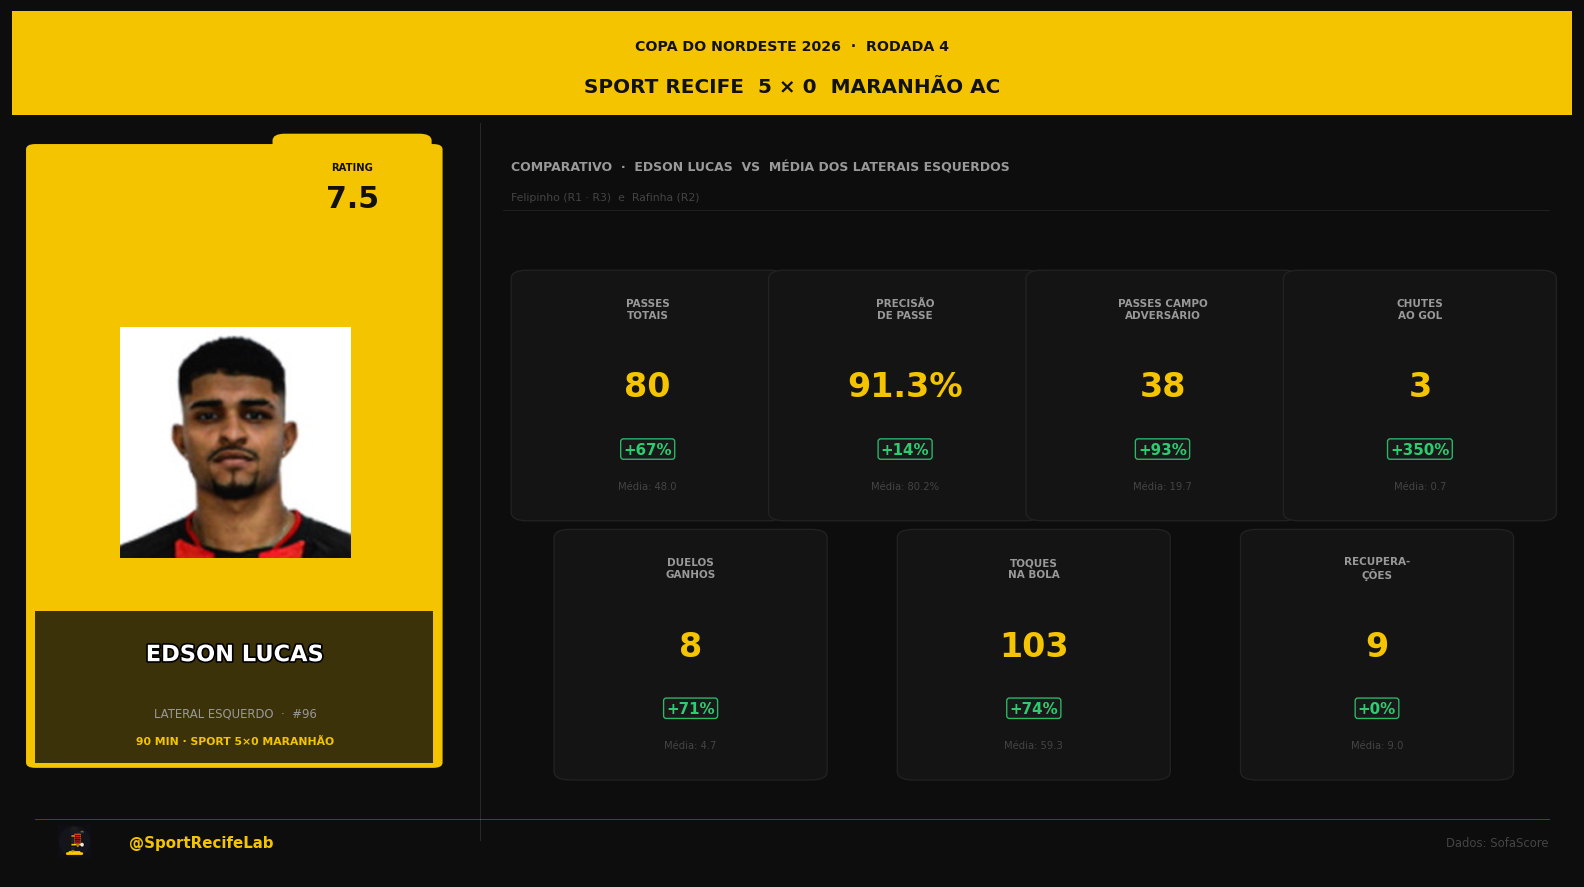
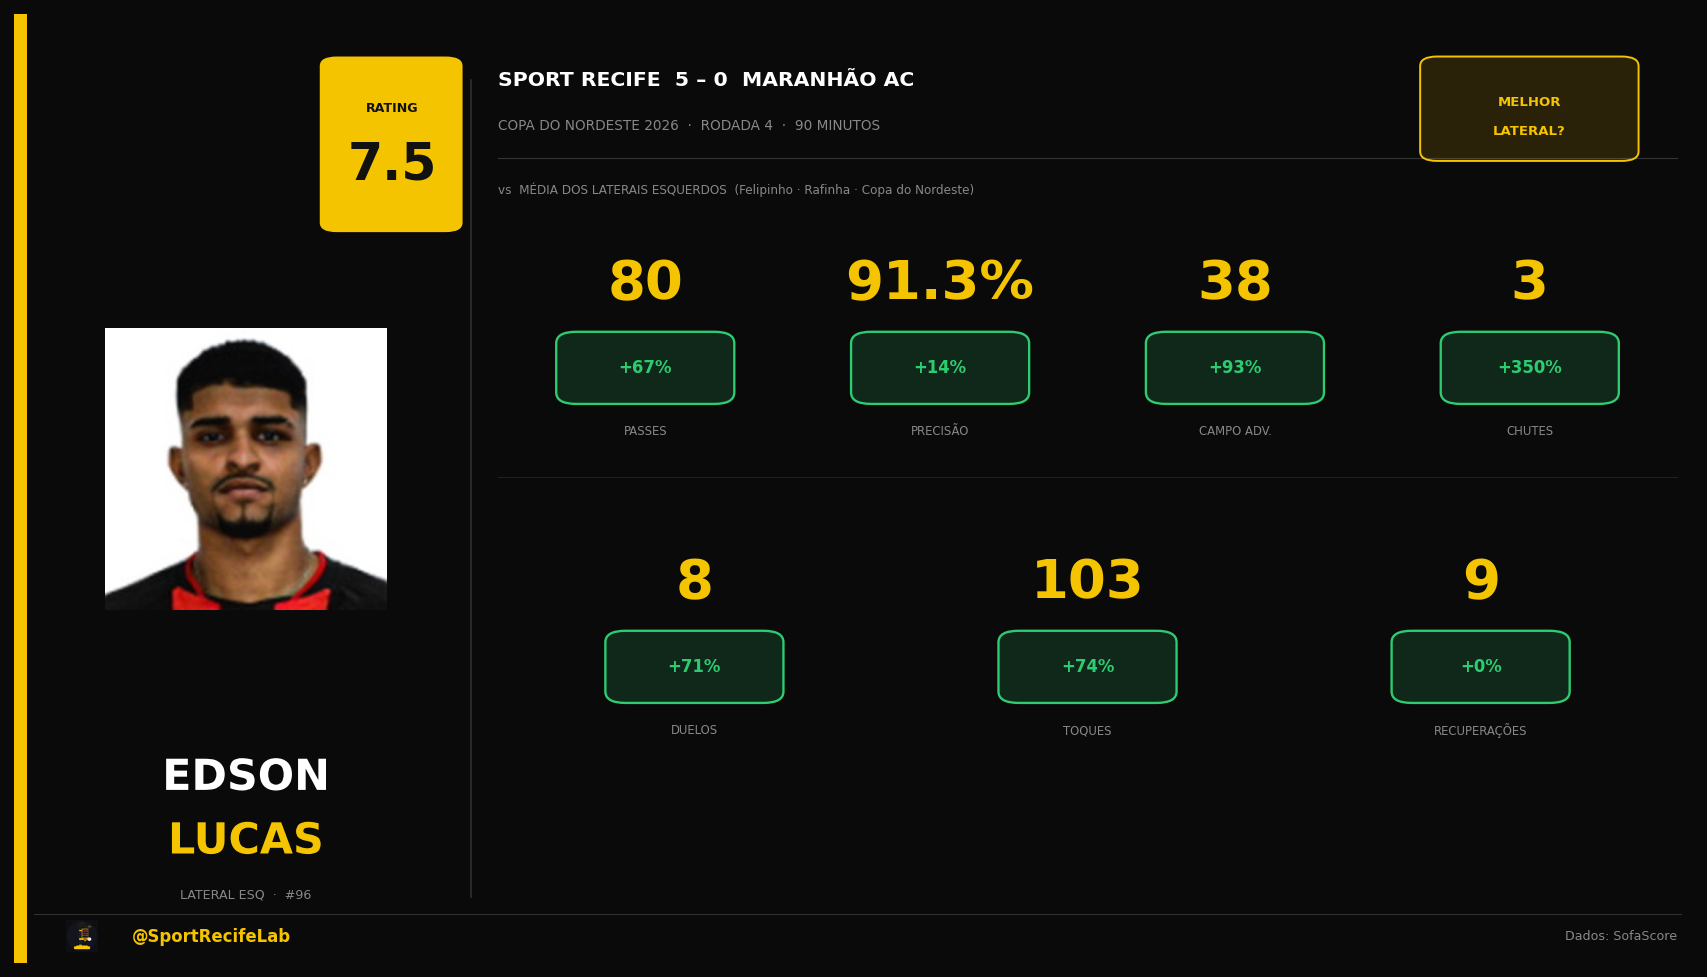
refactor: card Edson Lucas v3 — hierarquia visual e formato social
Redesenho completo: números em destaque máximo (28pt amarelo),
badges de delta como elemento secundário, sem barras comparativas.
Layout paisagem com foto + rating à esquerda e 7 stats em grade 4+3.
CTA "MELHOR LATERAL?" no topo direito para engajamento.

diff --git a/generate_edson_lucas_nordeste_r4.py b/generate_edson_lucas_nordeste_r4.py
@@ -1,7 +1,6 @@
 """
-Card comparativo — Edson Lucas x Média dos Laterais Esquerdos Copa do Nordeste 2026
-Jogo: Sport Recife 5x0 Maranhão AC (Rodada 4)
-Layout paisagem: painel esquerdo (foto + rating) | painel direito (stats vs média)
+Card — Edson Lucas · Copa do Nordeste R4 · Sport 5-0 Maranhão
+Redesign v3: hierarchy-first, landscape, optimized for social media
 """
 import matplotlib
 matplotlib.use("Agg")
@@ -12,55 +11,50 @@ from matplotlib.offsetbox import AnnotationBbox, OffsetImage
 import numpy as np
 from PIL import Image
 
-# ── Paleta ────────────────────────────────────────────────────────────────────
-BG     = "#0d0d0d"
-YELLOW = "#F5C400"
-WHITE  = "#FFFFFF"
-GRAY   = "#444444"
-LGRAY  = "#999999"
-GREEN  = "#2ECC71"
-RED    = "#E74C3C"
-PANEL  = "#141414"
+BG      = "#0a0a0a"
+YELLOW  = "#F5C400"
+WHITE   = "#FFFFFF"
+LGRAY   = "#888888"
+DGRAY   = "#333333"
+GREEN   = "#2ECC71"
+RED     = "#E74C3C"
+PANEL   = "#131313"
 
-FIG_W, FIG_H = 13.0, 7.2
-DPI = 120
+FIG_W, FIG_H = 12.0, 6.8
+DPI = 140
 
-# ── Dados ─────────────────────────────────────────────────────────────────────
-EDSON = {
-    "rating":       7.5,
-    "passes":       80,
-    "pass_acc":     91.3,
-    "opp_half":     38,
-    "shots":        3,
-    "duels_won":    8,
-    "touches":      103,
-    "recoveries":   9,
-}
-
-OTHERS = [
-    {"rating": 6.6, "passes": 54, "pass_acc": 79.6, "opp_half": 20, "shots": 0, "duels_won": 1,  "touches": 63, "recoveries": 3},
-    {"rating": 7.6, "passes": 32, "pass_acc": 78.1, "opp_half": 15, "shots": 0, "duels_won": 9,  "touches": 46, "recoveries": 14},
-    {"rating": 7.8, "passes": 58, "pass_acc": 82.8, "opp_half": 24, "shots": 2, "duels_won": 4,  "touches": 69, "recoveries": 10},
+STATS = [
+    # (label, value_str, delta_str, delta_positive)
+    ("PASSES",          "80",     "+67%",  True),
+    ("PRECISÃO",        "91.3%",  "+14%",  True),
+    ("CAMPO ADV.",      "38",     "+93%",  True),
+    ("CHUTES",          "3",      "+350%", True),
+    ("DUELOS",          "8",      "+71%",  True),
+    ("TOQUES",          "103",    "+74%",  True),
+    ("RECUPERAÇÕES",    "9",      "+0%",   True),
 ]
 
-def _mean(key):
-    return np.mean([o[key] for o in OTHERS])
 
-def _delta(val, mean, higher_is_better=True):
-    if mean == 0:
-        return "—", LGRAY
-    d = (val - mean) / mean * 100
-    sign = "+" if d >= 0 else ""
-    color = GREEN if (d >= 0) == higher_is_better else RED
-    return f"{sign}{d:.0f}%", color
+def _pill(ax, cx, cy, text, color, fontsize=8.5, w=0.072, h=0.055):
+    ax.add_patch(patches.FancyBboxPatch(
+        (cx - w/2, cy - h/2), w, h,
+        boxstyle="round,pad=0.012",
+        facecolor=color + "28",   # transparent fill
+        edgecolor=color, linewidth=1.2,
+        transform=ax.transAxes, zorder=8,
+    ))
+    ax.text(cx, cy, text,
+            color=color, fontsize=fontsize, fontweight="black",
+            ha="center", va="center",
+            transform=ax.transAxes, zorder=9)
 
 
 def generate():
     photo = Image.open("edson_lucas_foto.jpg").convert("RGBA")
-    photo = photo.resize((420, 420), Image.LANCZOS)
+    photo = photo.resize((460, 460), Image.LANCZOS)
     photo_arr = np.array(photo)
 
-    logo = Image.open("sportrecifelab_avatar.png").convert("RGBA").resize((44, 44), Image.LANCZOS)
+    logo = Image.open("sportrecifelab_avatar.png").convert("RGBA").resize((40, 40), Image.LANCZOS)
     logo_arr = np.array(logo)
 
     fig, ax = plt.subplots(figsize=(FIG_W, FIG_H), dpi=DPI)
@@ -70,171 +64,149 @@ def generate():
     ax.set_ylim(0, 1)
     ax.axis("off")
 
-    # ── Faixa topo ────────────────────────────────────────────────────────────
-    ax.add_patch(patches.Rectangle((0, 0.88), 1, 0.12,
+    # ── Faixa lateral amarela (acento vertical esquerdo) ─────────────────────
+    ax.add_patch(patches.Rectangle((0, 0), 0.008, 1,
                                     facecolor=YELLOW, edgecolor="none",
-                                    transform=ax.transAxes, zorder=1))
-    ax.text(0.5, 0.960, "COPA DO NORDESTE 2026  ·  RODADA 4",
-            color="#111", fontsize=8.5, fontweight="bold",
-            ha="center", va="center", transform=ax.transAxes, zorder=5)
-    ax.text(0.5, 0.913, "SPORT RECIFE  5 × 0  MARANHÃO AC",
-            color="#111", fontsize=12, fontweight="black",
-            ha="center", va="center", transform=ax.transAxes, zorder=5)
+                                    transform=ax.transAxes, zorder=2))
 
-    # ── Linha divisória vertical (separa painéis) ──────────────────────────────
-    DIV = 0.30
-    ax.plot([DIV, DIV], [0.04, 0.87], color=GRAY,
-            linewidth=0.6, alpha=0.5, transform=ax.transAxes, zorder=5)
+    # ══════════ PAINEL ESQUERDO ══════════════════════════════════════════════
+    L = 0.26   # largura do painel esquerdo
 
-    # ══════════════════════════════════════════════════════════════
-    # PAINEL ESQUERDO — foto + nome + rating
-    # ══════════════════════════════════════════════════════════════
-
-    # Moldura amarela da foto
-    ax.add_patch(patches.FancyBboxPatch(
-        (0.015, 0.13), 0.255, 0.71,
-        boxstyle="round,pad=0.006", facecolor=YELLOW,
-        edgecolor="none", transform=ax.transAxes, zorder=2,
-    ))
+    # Foto com vinheta lateral
     photo_ab = AnnotationBbox(
-        OffsetImage(photo_arr, zoom=0.33),
-        (0.143, 0.50), xycoords="axes fraction",
-        frameon=False, zorder=10,
+        OffsetImage(photo_arr, zoom=0.315),
+        (L / 2 + 0.008, 0.52),
+        xycoords="axes fraction", frameon=False, zorder=4,
     )
     ax.add_artist(photo_ab)
 
-    # Nome sobre a foto (faixa escura na base)
-    ax.add_patch(patches.Rectangle(
-        (0.015, 0.13), 0.255, 0.175,
-        facecolor="#0d0d0dCC", edgecolor="none",
-        transform=ax.transAxes, zorder=11,
-    ))
-    ax.text(0.143, 0.255, "EDSON LUCAS",
-            color=WHITE, fontsize=13.5, fontweight="black",
-            ha="center", va="center", transform=ax.transAxes, zorder=12,
-            path_effects=[pe.withStroke(linewidth=2, foreground="#000")])
-    ax.text(0.143, 0.188, "LATERAL ESQUERDO  ·  #96",
-            color=LGRAY, fontsize=7,
-            ha="center", va="center", transform=ax.transAxes, zorder=12)
-    ax.text(0.143, 0.155, "90 MIN · SPORT 5×0 MARANHÃO",
-            color=YELLOW, fontsize=6.5, fontweight="bold",
-            ha="center", va="center", transform=ax.transAxes, zorder=12)
-
-    # Rating badge no topo-direito do painel
-    ax.add_patch(patches.FancyBboxPatch(
-        (0.175, 0.755), 0.086, 0.095,
-        boxstyle="round,pad=0.008", facecolor=YELLOW,
-        edgecolor="none", transform=ax.transAxes, zorder=13,
-    ))
-    ax.text(0.218, 0.820, "RATING",
-            color="#111", fontsize=6, fontweight="black",
-            ha="center", va="center", transform=ax.transAxes, zorder=14)
-    ax.text(0.218, 0.783, f"{EDSON['rating']:.1f}",
-            color="#111", fontsize=18, fontweight="black",
-            ha="center", va="center", transform=ax.transAxes, zorder=14)
-
-    # ══════════════════════════════════════════════════════════════
-    # PAINEL DIREITO — comparativo vs média
-    # ══════════════════════════════════════════════════════════════
-
-    # Cabeçalho da seção
-    ax.text(DIV + 0.02, 0.820, "COMPARATIVO  ·  EDSON LUCAS  VS  MÉDIA DOS LATERAIS ESQUERDOS",
-            color=LGRAY, fontsize=7.5, fontweight="bold",
-            ha="left", va="center", transform=ax.transAxes, zorder=10)
-    ax.text(DIV + 0.02, 0.785, "Felipinho (R1 · R3)  e  Rafinha (R2)",
-            color=GRAY, fontsize=6.5,
-            ha="left", va="center", transform=ax.transAxes, zorder=10)
-    ax.plot([DIV + 0.015, 0.985], [0.770, 0.770], color=GRAY,
-            linewidth=0.4, alpha=0.5, transform=ax.transAxes, zorder=5)
-
-    # Métricas: (label, key, higher_is_better)
-    METRICS = [
-        ("PASSES\nTOTAIS",         "passes",     True),
-        ("PRECISÃO\nDE PASSE",     "pass_acc",   True),
-        ("PASSES CAMPO\nADVERSÁRIO","opp_half",  True),
-        ("CHUTES\nAO GOL",         "shots",      True),
-        ("DUELOS\nGANHOS",         "duels_won",  True),
-        ("TOQUES\nNA BOLA",        "touches",    True),
-        ("RECUPERA-\nÇÕES",        "recoveries", True),
-    ]
-
-    n = len(METRICS)
-    # Grid 4+3 (primeira linha 4, segunda linha 3 centradas)
-    ROW1 = METRICS[:4]
-    ROW2 = METRICS[4:]
-
-    right_start = DIV + 0.025
-    right_end   = 0.985
-    right_w     = right_end - right_start
-
-    def _draw_metric_block(ax, cx, cy, label, key, higher_is_better):
-        edson_val = EDSON[key]
-        mean_val  = _mean(key)
-        delta_str, delta_color = _delta(edson_val, mean_val, higher_is_better)
-
-        # Fundo do bloco
-        bw, bh = 0.155, 0.270
-        ax.add_patch(patches.FancyBboxPatch(
-            (cx - bw/2, cy - bh/2), bw, bh,
-            boxstyle="round,pad=0.010", facecolor=PANEL,
-            edgecolor="#222222", linewidth=0.8,
-            transform=ax.transAxes, zorder=6,
+    # Gradiente sobre a foto (base escura para legibilidade do nome)
+    for i, alpha in enumerate(np.linspace(0.0, 0.92, 10)):
+        y = 0.01 + i * 0.025
+        ax.add_patch(patches.Rectangle(
+            (0.008, y), L, 0.025,
+            facecolor=BG, alpha=alpha, edgecolor="none",
+            transform=ax.transAxes, zorder=5,
         ))
 
-        # Label
-        ax.text(cx, cy + bh/2 - 0.035, label,
-                color=LGRAY, fontsize=6.2, fontweight="bold",
-                ha="center", va="center", multialignment="center",
-                transform=ax.transAxes, zorder=10)
+    # Nome
+    ax.text(L / 2 + 0.008, 0.195, "EDSON",
+            color=WHITE, fontsize=22, fontweight="black",
+            ha="center", va="center", transform=ax.transAxes, zorder=10,
+            path_effects=[pe.withStroke(linewidth=3, foreground=BG)])
+    ax.text(L / 2 + 0.008, 0.128, "LUCAS",
+            color=YELLOW, fontsize=22, fontweight="black",
+            ha="center", va="center", transform=ax.transAxes, zorder=10,
+            path_effects=[pe.withStroke(linewidth=3, foreground=BG)])
 
-        # Valor Edson (grande, amarelo)
-        val_str = f"{edson_val:.0f}" if isinstance(edson_val, float) and edson_val != int(edson_val) else str(int(edson_val) if isinstance(edson_val, int) else edson_val)
-        if key == "pass_acc":
-            val_str = f"{edson_val:.1f}%"
-        ax.text(cx, cy + 0.010, val_str,
-                color=YELLOW, fontsize=20, fontweight="black",
+    # Posição e jogo
+    ax.text(L / 2 + 0.008, 0.072, "LATERAL ESQ  ·  #96",
+            color=LGRAY, fontsize=6.5, ha="center", va="center",
+            transform=ax.transAxes, zorder=10)
+
+    # Rating — destaque máximo no canto superior direito do painel
+    ax.add_patch(patches.FancyBboxPatch(
+        (L - 0.068, 0.78), 0.065, 0.165,
+        boxstyle="round,pad=0.010",
+        facecolor=YELLOW, edgecolor="none",
+        transform=ax.transAxes, zorder=6,
+    ))
+    ax.text(L - 0.035, 0.900, "RATING",
+            color="#111", fontsize=6.5, fontweight="black",
+            ha="center", va="center", transform=ax.transAxes, zorder=10)
+    ax.text(L - 0.035, 0.840, "7.5",
+            color="#111", fontsize=26, fontweight="black",
+            ha="center", va="center", transform=ax.transAxes, zorder=10)
+
+    # ══════════ DIVISÓRIA ════════════════════════════════════════════════════
+    ax.plot([L + 0.012, L + 0.012], [0.07, 0.93],
+            color=DGRAY, linewidth=0.8, transform=ax.transAxes, zorder=5)
+
+    # ══════════ PAINEL DIREITO ════════════════════════════════════════════════
+    R0 = L + 0.028   # início do painel direito
+
+    # Contexto do jogo (topo)
+    ax.text(R0, 0.930, "SPORT RECIFE  5 – 0  MARANHÃO AC",
+            color=WHITE, fontsize=10.5, fontweight="black",
+            ha="left", va="center", transform=ax.transAxes, zorder=10)
+    ax.text(R0, 0.882, "COPA DO NORDESTE 2026  ·  RODADA 4  ·  90 MINUTOS",
+            color=LGRAY, fontsize=7,
+            ha="left", va="center", transform=ax.transAxes, zorder=10)
+
+    # CTA badge
+    cta_x = 0.945
+    ax.add_patch(patches.FancyBboxPatch(
+        (cta_x - 0.098, 0.855), 0.110, 0.090,
+        boxstyle="round,pad=0.010",
+        facecolor=YELLOW + "22", edgecolor=YELLOW, linewidth=1.0,
+        transform=ax.transAxes, zorder=7,
+    ))
+    ax.text(cta_x - 0.043, 0.907, "MELHOR",
+            color=YELLOW, fontsize=6.8, fontweight="black",
+            ha="center", va="center", transform=ax.transAxes, zorder=10)
+    ax.text(cta_x - 0.043, 0.876, "LATERAL?",
+            color=YELLOW, fontsize=6.8, fontweight="black",
+            ha="center", va="center", transform=ax.transAxes, zorder=10)
+
+    # Linha separadora
+    ax.plot([R0, 0.990], [0.848, 0.848],
+            color=DGRAY, linewidth=0.6, transform=ax.transAxes, zorder=5)
+
+    # Sub-título do comparativo
+    ax.text(R0, 0.815, "vs  MÉDIA DOS LATERAIS ESQUERDOS  (Felipinho · Rafinha · Copa do Nordeste)",
+            color=LGRAY, fontsize=6.2,
+            ha="left", va="center", transform=ax.transAxes, zorder=10)
+
+    # ── Grid de stats: 4 (linha 1) + 3 (linha 2) ─────────────────────────────
+    right_w = 0.990 - R0
+    ROW1 = STATS[:4]
+    ROW2 = STATS[4:]
+
+    def _stat_cell(ax, cx, cy_top, label, value, delta_str, delta_pos):
+        d_color = GREEN if delta_pos else RED
+        # Valor — elemento dominante
+        ax.text(cx, cy_top - 0.060, value,
+                color=YELLOW, fontsize=28, fontweight="black",
+                ha="center", va="center", transform=ax.transAxes, zorder=10)
+        # Delta pill logo abaixo
+        _pill(ax, cx, cy_top - 0.148, delta_str, d_color,
+              fontsize=8.5, w=0.082, h=0.052)
+        # Label pequeno abaixo do pill
+        ax.text(cx, cy_top - 0.215, label,
+                color=LGRAY, fontsize=6.0,
                 ha="center", va="center", transform=ax.transAxes, zorder=10)
 
-        # Delta badge
-        ax.text(cx, cy - 0.062, delta_str,
-                color=delta_color, fontsize=9, fontweight="bold",
-                ha="center", va="center", transform=ax.transAxes, zorder=10,
-                bbox=dict(boxstyle="round,pad=0.18", facecolor="#1a1a1a",
-                          edgecolor=delta_color, linewidth=0.8, alpha=0.9))
-
-        # Média abaixo
-        mean_str = f"{mean_val:.1f}%" if key == "pass_acc" else f"{mean_val:.1f}"
-        ax.text(cx, cy - bh/2 + 0.030, f"Média: {mean_str}",
-                color=GRAY, fontsize=6,
-                ha="center", va="center", transform=ax.transAxes, zorder=10)
-
-    # Linha 1 — 4 métricas
-    row1_y = 0.555
-    for i, (lbl, key, hib) in enumerate(ROW1):
+    row1_top = 0.775
+    for i, (lbl, val, dlt, pos) in enumerate(ROW1):
         step = right_w / 4
-        cx = right_start + step * i + step / 2
-        _draw_metric_block(ax, cx, row1_y, lbl, key, hib)
+        cx = R0 + step * i + step / 2
+        _stat_cell(ax, cx, row1_top, lbl, val, dlt, pos)
 
-    # Linha 2 — 3 métricas centralizadas
-    row2_y = 0.255
-    for i, (lbl, key, hib) in enumerate(ROW2):
+    # Linha divisória sutil entre linhas
+    ax.plot([R0, 0.990], [0.512, 0.512],
+            color=DGRAY, linewidth=0.5, alpha=0.6,
+            transform=ax.transAxes, zorder=5)
+
+    row2_top = 0.460
+    for i, (lbl, val, dlt, pos) in enumerate(ROW2):
         step = right_w / 3
-        cx = right_start + step * i + step / 2
-        _draw_metric_block(ax, cx, row2_y, lbl, key, hib)
+        cx = R0 + step * i + step / 2
+        _stat_cell(ax, cx, row2_top, lbl, val, dlt, pos)
 
     # ── Footer ────────────────────────────────────────────────────────────────
-    ax.plot([0.015, 0.985], [0.065, 0.065], color=YELLOW,
-            linewidth=0.6, alpha=0.30, transform=ax.transAxes, zorder=10)
+    ax.plot([0.012, 0.992], [0.052, 0.052],
+            color=DGRAY, linewidth=0.5, transform=ax.transAxes, zorder=5)
+
     logo_ab = AnnotationBbox(
-        OffsetImage(logo_arr, zoom=0.44), (0.040, 0.038),
+        OffsetImage(logo_arr, zoom=0.40), (0.040, 0.028),
         xycoords="axes fraction", frameon=False, zorder=11,
     )
     ax.add_artist(logo_ab)
-    ax.text(0.075, 0.038, "@SportRecifeLab",
-            color=YELLOW, fontsize=9, fontweight="bold",
+    ax.text(0.070, 0.028, "@SportRecifeLab",
+            color=YELLOW, fontsize=8.5, fontweight="bold",
             ha="left", va="center", transform=ax.transAxes, zorder=10)
-    ax.text(0.985, 0.038, "Dados: SofaScore",
-            color=GRAY, fontsize=7, ha="right", va="center",
+    ax.text(0.990, 0.028, "Dados: SofaScore",
+            color=LGRAY, fontsize=6.5, ha="right", va="center",
             transform=ax.transAxes, zorder=10)
 
     out = "card_edson_lucas_nordeste_r4.png"
